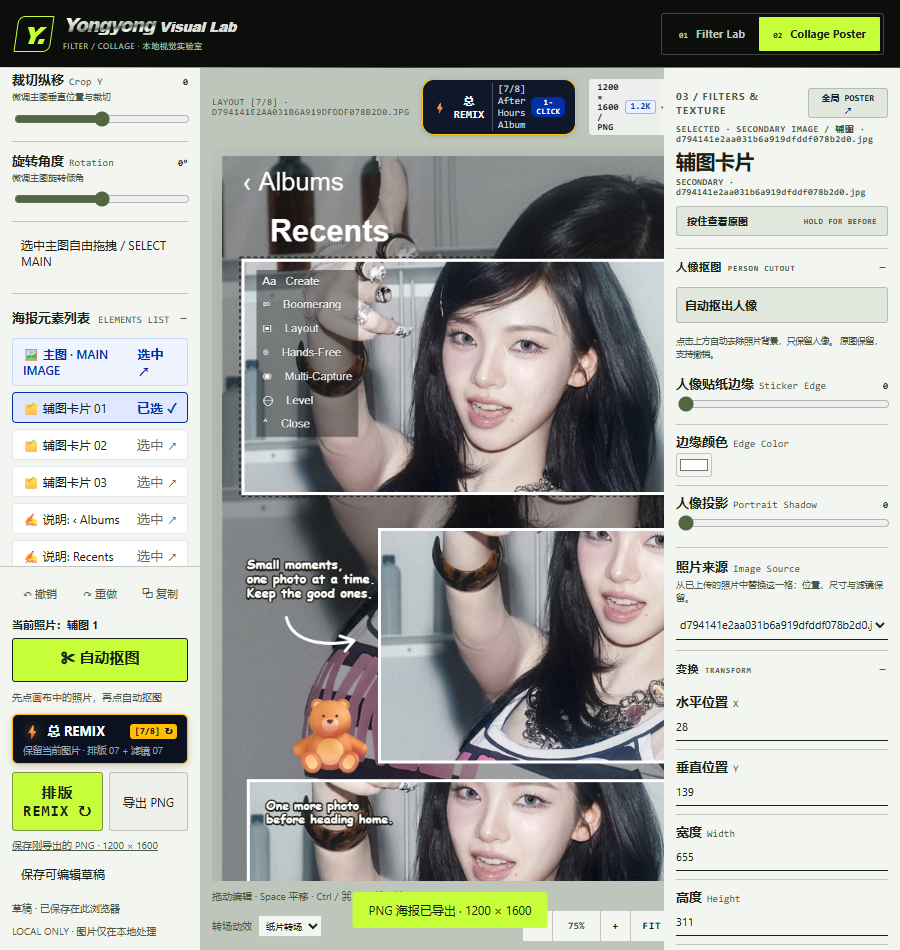
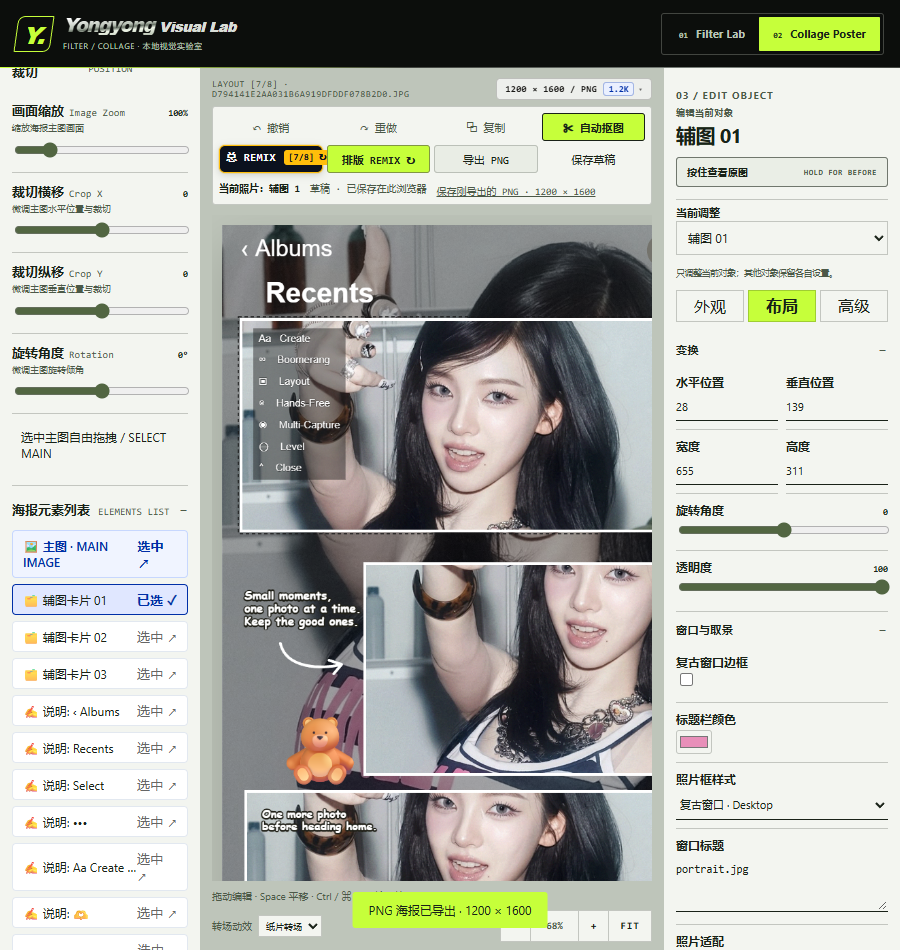
feat(editor): unify object inspector and verify advanced effect controls

diff --git a/poster.js b/poster.js
@@ -2239,7 +2239,93 @@
     } catch (error) { console.warn('Person cutout failed',error);toast('抠图未完成：'+error.message); }
     finally { cutoutBusy = false;cutoutLabel = '';renderInspector(); }
   }
+  let inspectorTab = 'look', inspectorViewKey = '', inspectorEffect = '';
   function renderInspector() {
+    renderInspectorContent();
+    organizeInspector();
+  }
+  function organizeInspector() {
+    const key = state.selected ? state.selected.type + ':' + state.selected.id : 'canvas';
+    if (key !== inspectorViewKey) { inspectorViewKey = key; inspectorTab = 'look'; inspectorEffect = ''; }
+    const nodes = Array.from(inspector.children);
+    const panes = Object.fromEntries(['look','layout','advanced'].map(name => {
+      const pane = document.createElement('div'); pane.dataset.inspectorPane = name; return [name,pane];
+    }));
+    const layoutSections = new Set(['TRANSFORM','CROP','WINDOW & CROP']);
+    const lookSections = new Set(['BACKGROUND & PAPER','COLOR & TONALITY','IMAGE','APPEARANCE','TYPOGRAPHY','FRAME','CONNECTOR','LABEL']);
+    nodes.forEach(node => {
+      const section = node.querySelector(':scope > summary .acc-en')?.textContent;
+      const pane = layoutSections.has(section) || node.matches('.poster-layer-order,.poster-section-label') ? 'layout' : lookSections.has(section) || node.querySelector('[data-prop="imageId"]') ? 'look' : 'advanced';
+      panes[pane].append(node);
+      if (node.matches('details')) node.open = pane !== 'advanced';
+      if (section === 'STYLE') node.querySelectorAll('.poster-field').forEach(field => {
+        if (field.querySelector('[data-prop="brightness"],[data-prop="contrast"],[data-prop="saturation"]')) panes.look.append(field);
+      });
+      if (section === 'TRANSFORM') node.querySelectorAll('.poster-field').forEach(field => {
+        if (field.querySelector('input[type="number"]')) field.classList.add('inspector-coordinate');
+      });
+    });
+    if (state.selected?.type === 'text') {
+      const fine = document.createElement('details'); fine.className='poster-accordion';
+      fine.innerHTML='<summary><span class="acc-zh">文字细节</span><span class="acc-en">TEXT DETAILS</span></summary><div class="poster-accordion-body"></div>';
+      panes.look.querySelectorAll('.poster-field').forEach(field=>{
+        if(field.querySelector('[data-prop="weight"],[data-prop="letterSpacing"],[data-prop="lineHeight"],[data-prop="align"],[data-segmented-for="writingMode"]')) fine.lastElementChild.append(field);
+      });
+      panes.advanced.prepend(fine);
+    }
+    // Keep every existing control and binding, but separate canvas-only geometry.
+    if (!state.selected) {
+      const paper = document.createElement('details'); paper.className = 'poster-accordion';
+      paper.innerHTML = '<summary><span class="acc-zh">纸框与外框</span><span class="acc-en">PAPER & BORDER</span></summary><div class="poster-accordion-body"></div>';
+      const position=document.createElement('details');position.className='poster-accordion';position.open=true;
+      position.innerHTML='<summary><span class="acc-zh">纸框位置</span><span class="acc-en">PAPER POSITION</span></summary><div class="poster-accordion-body"></div>';
+      panes.look.querySelectorAll('.poster-field').forEach(field => {
+        const control = field.querySelector('[data-global]'); const prop = control?.dataset.global || '';
+        if (['paper_x','paper_y','paper_w','paper_h'].includes(prop)) {field.classList.add('inspector-coordinate');position.lastElementChild.append(field);}
+        else if (prop.startsWith('paper_') || ['paperEnabled','border','borderColor','borderWidth'].includes(prop)) paper.lastElementChild.append(field);
+      });
+      panes.advanced.prepend(paper);
+      if(position.lastElementChild.children.length)panes.layout.append(position);
+      inspectorTitle.textContent = '画布'; inspectorSelection.textContent = '背景 · 纸框 · 外框';
+      if (holdBeforeButton) holdBeforeButton.style.display = 'none';
+    }
+    const choices = [['canvas','画布背景']];
+    if (state.image) choices.push(['main:'+state.main.id,'主图']);
+    for (const [type,list,label] of [['secondary',state.secondaries,'辅图'],['fragment',state.fragments,'图像碎片'],['frame',state.frames,'索引框'],['detail',state.details,'局部图'],['text',state.texts,'文字'],['connector',state.details,'连接线']]) {
+      list.forEach((object,i) => choices.push([type+':'+object.id,label+' '+String(i+1).padStart(2,'0')]));
+    }
+    const header = document.createElement('div'); header.className = 'poster-inspector-nav';
+    header.innerHTML = '<label for="posterInspectorTarget">当前调整</label><select id="posterInspectorTarget">'+choices.map(([value,label])=>'<option value="'+escapeHTML(value)+'" '+(value===key?'selected':'')+'>'+escapeHTML(label)+'</option>').join('')+'</select><p class="poster-help">'+(state.selected?'只调整当前对象；其他对象保留各自设置。':'只调整背景、纸框和外框。照片效果请选主图或辅图。')+'</p><div class="poster-inspector-tabs" role="tablist" aria-label="编辑分类">'+[['look','外观'],['layout','布局'],['advanced','高级']].map(([value,label])=>'<button type="button" role="tab" data-inspector-tab="'+value+'" aria-selected="'+(value===inspectorTab)+'">'+label+'</button>').join('')+'</div>';
+    const advanced = Array.from(panes.advanced.querySelectorAll(':scope > details'));
+    if (advanced.length) {
+      const picker = document.createElement('div'); picker.className = 'poster-field';
+      picker.innerHTML = '<label for="posterInspectorEffect">选择效果或详细设置</label><select id="posterInspectorEffect"><option value="">请选择</option>'+advanced.map((node,i)=>{
+        const code=node.querySelector(':scope > summary .acc-en')?.textContent || String(i);node.dataset.inspectorEffect=code;
+        return '<option value="'+escapeHTML(code)+'" '+(code===inspectorEffect?'selected':'')+'>'+escapeHTML(node.querySelector(':scope > summary .acc-zh')?.textContent || code)+'</option>';
+      }).join('')+'</select>';
+      if (!advanced.some(node=>node.dataset.inspectorEffect===inspectorEffect)) inspectorEffect='';
+      panes.advanced.prepend(picker);
+      advanced.forEach(node=>{node.hidden=node.dataset.inspectorEffect!==inspectorEffect;node.open=true;});
+
+    }
+    for (const name of Object.keys(panes)) panes[name].hidden=name!==inspectorTab;
+    if (!panes.layout.children.length) panes.layout.innerHTML='<p class="poster-help">在高级 → 纸框与外框开启内层纸框后，可在这里调整位置和尺寸。</p>';
+    inspectorTitle.textContent=header.querySelector('select').selectedOptions[0].textContent;
+    inspectorSelection.textContent=state.selected?'编辑当前对象':'背景 · 纸框 · 外框';
+    inspector.replaceChildren(header,panes.look,panes.layout,panes.advanced);
+    syncInspectorDependencies();
+    const deselectBtn=$('#posterDeselectButton'); if(deselectBtn)deselectBtn.style.display='none';
+  }
+  function syncInspectorDependencies() {
+      const dependencies=[['GRADIENT MAP','duotone',['duotoneDark','duotoneLight','gradientGamma']],['MOTION BLUR','motionDistance',['motionAngle']],['NOISE','grain',['noiseDistribution','noiseMonochrome','noiseSize']],['PERSON CUTOUT',null,['cutoutBorderWidth','cutoutBorderColor','cutoutShadow']],['WINDOW & CROP','windowFrame',['windowColor','windowStyle','windowTitle']],['TEXT EFFECT','textStyle',['balloonDepth','balloonShine'],'balloon'],['BADGE & BACKING','backgroundEnabled',['backgroundColor','backgroundOpacity','backgroundPaddingX','backgroundPaddingY']]];
+      for(const [section,key,props,required] of dependencies){
+        const group=Array.from(inspector.querySelectorAll('.poster-accordion')).find(node=>node.querySelector(':scope > summary .acc-en')?.textContent===section);if(!group)continue;
+        const control=key?group.querySelector('[data-prop="'+key+'"],[data-global="'+key+'"]'):null;
+        const enabled=required?control?.value===required:key?(control?.type==='checkbox'?control.checked:Number(control?.value)>0):!!selectedObject()?.cutout;
+        for(const prop of props) group.querySelectorAll('[data-prop="'+prop+'"],[data-global="'+prop+'"]').forEach(input=>{input.disabled=!enabled;input.title=enabled?'':'先启用该效果或增加强度';});
+      }
+  }
+  function renderInspectorContent() {
     syncLeftControls();
     const o = selectedObject();
     const photoSelected = !!o && ['main','secondary'].includes(state.selected?.type);
@@ -2299,18 +2385,8 @@
       + range('外框线宽','Border Width','borderWidth',state.borderWidth,1,18,1,true);
       const bgAccordion = accordion('背景与纸张', 'BACKGROUND & PAPER', bgPresetsContent, true);
 
-      const colorAccordion = accordion('图像调色', 'COLOR & TONALITY', `${range('主图透明度','Image Opacity','mainOpacity',state.main?.opacity??100,0,100,1,true,'调节主图与背景的融合透明度')}${range('底图边缘融合','Main Edge Blend','mainEdgeFade',state.mainEdgeFade??0,0,100,1,true,'柔化照片边缘，让底图融入纸张背景')}${range('黑白','B&W','bw',state.filters.bw??0,0,100,1,true,'将彩色转换为黑白基调')}${range('亮度','Brightness','brightness',state.filters.brightness??0,-70,80,1,true,'调节画面整体明暗曝光')}${range('对比度','Contrast','contrast',state.filters.contrast??0,-50,120,1,true,'拉开明暗反差与视觉冲击')}${range('饱和度','Saturation','saturation',state.filters.saturation??100,0,200,1,true,'控制色彩纯度与鲜艳度')}<div class="poster-field" style="margin-top:6px;"><button type="button" class="poster-action" data-poster-action="reset-filters" style="width:100%;">恢复原图清晰质感 / RESET FILTERS</button></div>`, true);
 
-      inspector.innerHTML = accordion('人像抠图','PERSON CUTOUT','<button type="button" class="poster-action poster-action-primary" data-poster-action="select-main">选择主图抠图 ↗</button><p class="poster-help">点击画布中的辅图，可单独抠出该照片的人像。已抠图的照片可恢复背景。</p>',true)
-        + filterRemixBanner
-        + bgAccordion
-        + colorAccordion
-        + inspectorImagePatterns(state.filters,true)
-        + accordion('扫描纹', 'SCANLINES', `${range('扫描线','Scanline','scan',state.filters.scan??0,0,100,1,true,'模拟复印或显像管扫描条纹')}${segmented('扫描方向','Scan Direction','scanAngle',state.filters.scanAngle??0,[[0,'横向','Horizontal'],[90,'纵向','Vertical']],true,'切换横向或纵向扫描条纹')}`)
-        + inspectorMotionNoise(state.filters,true)
-        + inspectorGradientControls(state.filters,true)
-        + accordion('质感', 'TEXTURE', `${range('粗糙度','Roughness','rough',state.filters.rough??0,0,100,1,true,'增加复印 / 阈值化的粗粝感')}${range('纸张纹理','Paper Texture','paper',state.filters.paper??0,0,100,1,true,'模拟旧报纸与复印纸纤维杂质')}${range('脏版印刷','Dirty Print','dirty',state.filters.dirty??0,0,100,1,true,'增加墨点、污渍和印刷缺陷')}${range('压缩损坏','Compression','compression',state.filters.compression??0,0,100,1,true,'模拟低质量数字图片的块状损坏')}`)
-        + accordion('风格化', 'STYLIZE', `${range('轮廓','Outline','outline',state.filters.outline,0,100,1,true,'提取高对比边缘描边线条')}${range('反相','Invert','invert',state.filters.invert,0,100,1,true,'翻转明暗与底片反色')}${range('色阶压缩','Color Compression / Posterize','posterize',state.filters.posterize,0,100,1,true,'减少颜色层级，形成块面效果')}<p class="poster-help">所有质感均可从 Clean 的 0% 推到 Destroyed 的 100%。</p>`);
+      inspector.innerHTML = bgAccordion + accordion('模板调色配方','TEMPLATE FILTERS','<p class="poster-help">切换模板的照片调色配方；保留排版与素材。</p>'+filterRemixBanner);
       return;
     }
     if (state.selected.type === 'main') {
@@ -2324,6 +2400,11 @@
         + inspectorImagePatterns(state.filters,true)
         + inspectorMotionNoise(state.filters,true)
         + inspectorGradientControls(state.filters,true)
+        + accordion('扫描纹','SCANLINES',range('扫描线','Scanline','scan',state.filters.scan??0,0,100,1,true)+segmented('扫描方向','Direction','scanAngle',state.filters.scanAngle??0,[[0,'横向','Horizontal'],[90,'纵向','Vertical']],true))
+        + accordion('质感','TEXTURE',range('粗糙度','Roughness','rough',state.filters.rough??0,0,100,1,true)+range('纸张纹理','Paper','paper',state.filters.paper??0,0,100,1,true)+range('脏版印刷','Dirty','dirty',state.filters.dirty??0,0,100,1,true)+range('压缩损坏','Compression','compression',state.filters.compression??0,0,100,1,true))
+        + accordion('风格化','STYLIZE',range('轮廓','Outline','outline',state.filters.outline??0,0,100,1,true)+range('反相','Invert','invert',state.filters.invert??0,0,100,1,true)+range('色阶压缩','Posterize','posterize',state.filters.posterize??0,0,100,1,true))
+        + accordion('边缘融合','EDGE BLEND',range('底图边缘融合','Edge Blend','mainEdgeFade',state.mainEdgeFade??0,0,100,1,true))
+        + accordion('重置主图','RESET MAIN','<button type="button" class="poster-action" data-poster-action="reset-filters">重置主图取景与效果</button>')
         + layerControls();
       return;
     }
@@ -4470,6 +4551,7 @@
     }
     if (c.type === 'number' && (c.value === '' || !Number.isFinite(c.valueAsNumber))) return;
     root[p] = c.type === 'checkbox' ? c.checked : (c.type === 'range' || c.type === 'number' ? Number(c.value) : c.value);
+    if (['duotone','motionDistance','grain','windowFrame','backgroundEnabled','textStyle'].includes(p)) syncInspectorDependencies();
     if (['w', 'h'].includes(p)) root[p] = Math.max(20, root[p]);
     if (['x','y','w','h','rotation'].includes(p)) {
       if (state.selected?.type === 'secondary' || state.selected?.type === 'main') {
@@ -4488,13 +4570,30 @@
       if (['duotone','gradient_map'].includes(root.filterType)) root.duotone = true;
       renderInspector();
     }
-    if (p === 'bitmapMethod') renderInspector();
+    if (p === 'bitmapMethod' || p === 'backgroundStyle') renderInspector();
     scheduleRender();
     const out = c.closest('.poster-field')?.querySelector('output');
     if (out) out.textContent = c.value;
     commit(false);
     markManuallyEdited();
   }
+  inspector.addEventListener('click', e => {
+    const tab = e.target.closest('[data-inspector-tab]');
+    if (tab) { inspectorTab=tab.dataset.inspectorTab; renderInspector(); }
+  });
+  inspector.addEventListener('change', e => {
+    if (e.target.id==='posterInspectorEffect') { inspectorEffect=e.target.value; renderInspector(); }
+    if (e.target.id==='posterInspectorTarget') {
+      const value=e.target.value;
+      if (value==='canvas') setSelected(null,null);
+      else {
+        const split=value.indexOf(':'), type=value.slice(0,split), id=value.slice(split+1);
+        const lists={main:[state.main],secondary:state.secondaries,fragment:state.fragments,frame:state.frames,detail:state.details,text:state.texts,connector:state.details};
+        const object=lists[type]?.find(item=>item.id===id);if(object)setSelected(type,object);
+      }
+      render();
+    }
+  });
   inspector.addEventListener('input', handleInspectorInput);
   inspector.addEventListener('change', (e) => {
     handleInspectorInput(e);

diff --git a/index.html b/index.html
@@ -6,7 +6,7 @@
     <meta name="theme-color" content="#0c0e0c" />
     <title>Yongyong Visual Lab — Filter & Collage Studio</title>
     <link rel="stylesheet" href="styles.css?v=20261001-readable" />
-    <link rel="stylesheet" href="poster.css?v=20261011-compact-toolbar" />
+    <link rel="stylesheet" href="poster.css?v=20261011-unified-inspector" />
   </head>
   <body>
     <div class="app-shell">
@@ -430,12 +430,12 @@
 
               <button class="poster-remix-button" id="posterRemixButton" type="button" data-poster-action="remix" aria-label="排版 REMIX ↻"><b>排版 REMIX ↻</b></button>
               <button class="poster-action" id="posterExportButton" type="button">导出 PNG</button>
-            <a id="posterLastExportLink" hidden>保存刚导出的 PNG</a>
             <button class="poster-action" id="posterSaveDraftButton" type="button">保存草稿</button>
             </div>
             <div class="poster-toolbar-status">
             <p class="poster-cutout-target" id="posterCutoutTarget" role="status" aria-live="polite">当前照片：主图</p>
             <small id="posterDraftStatus" role="status" aria-live="polite">草稿 · 准备中</small>
+            <a id="posterLastExportLink" hidden>保存刚导出的 PNG</a>
 
             </div>
           </section>
@@ -463,7 +463,7 @@
         <aside class="poster-inspector" aria-label="拼贴海报滤镜面板">
           <div class="poster-inspector-heading">
             <div style="display:flex;align-items:center;justify-content:space-between;">
-              <p class="eyebrow" style="margin:0;">03 / FILTERS & TEXTURE</p>
+              <p class="eyebrow" style="margin:0;">03 / EDIT OBJECT</p>
               <button class="poster-deselect-button" id="posterDeselectButton" type="button" style="display:none;" title="返回海报全局设置">全局 POSTER ↗</button>
             </div>
             <span class="poster-selected-label" id="posterInspectorSelection">FILTERS · TEXTURE</span>
@@ -496,6 +496,6 @@
     <script src="poster-draft.js?v=20261009-local"></script>
     <script src="poster-cutout.js?v=20261009-stable"></script>
     <script src="poster-decor.js?v=20261010-function-fit-font-backing"></script>
-    <script src="poster.js?v=20261010-top-toolbar"></script>
+    <script src="poster.js?v=20261011-unified-inspector"></script>
   </body>
 </html>

diff --git a/poster.css b/poster.css
@@ -299,6 +299,19 @@ body.is-resizing-poster canvas {
 .poster-accordion > summary::after { content: '+'; position: absolute; right: 1px; top: 9px; color: var(--muted); font-size: 13px; }
 .poster-accordion[open] > summary::after { content: '−'; }
 .poster-accordion-body { padding: 0 0 4px; }
+.poster-inspector-nav select { width: 100%; padding: 7px; border: 1px solid var(--line); background: var(--panel); color: var(--ink); font-size: 12px; }
+.poster-inspector-nav > label { font-size: 11px; font-weight: 700; }
+.poster-inspector-tabs { display: grid; grid-template-columns: repeat(3, 1fr); gap: 4px; margin: 10px 0; }
+.poster-inspector-tabs button { min-height: 32px; border: 1px solid var(--line); background: transparent; color: var(--ink); cursor: pointer; }
+.poster-inspector-tabs [aria-selected="true"] { background: var(--accent); font-weight: 700; }
+[data-inspector-pane] > .poster-accordion > summary .acc-en { display: none; }
+[data-inspector-pane="layout"] .poster-accordion-body { display: grid; grid-template-columns: 1fr 1fr; gap: 0 8px; }
+[data-inspector-pane="layout"] .poster-accordion-body > :not(.inspector-coordinate) { grid-column: 1 / -1; }
+[data-inspector-pane] .poster-label-sub { display: none; }
+[data-inspector-pane] .poster-label-main { font-size: 12px; }
+[data-inspector-pane] .poster-field { padding: 7px 0; }
+.poster-inspector-tabs button:focus-visible, .poster-inspector-nav select:focus-visible { outline: 2px solid #002fa7; outline-offset: 2px; }
+[data-inspector-pane] .poster-filter-remix-button { padding: 6px 8px !important; font-size: 12px !important; box-shadow: none !important; }
 .poster-accordion .poster-field { padding: 8px 0; }
 .poster-field { padding: 10px 0; border-bottom: 1px solid var(--line); }
 .poster-field:last-child { border-bottom: 0; }

diff --git a/DEVELOPMENT_LOG.md b/DEVELOPMENT_LOG.md
@@ -1187,3 +1187,11 @@
 顶部常用操作改为两行四列等宽按钮，桌面常用键高28px，手机保留34px；移除重复提示行，状态合并。968px窗口工具区实测92px高，四种尺寸无横向溢出且不遮挡画布；复制／历史、两图八组总REMIX素材保留、抠图恢复、草稿和PNG下载通过。新增高度上限断言。
 
 右侧仅制作待确认的独立交互方案，未调整正式Inspector：明确选择主图、辅图、局部、文字或画布；外观／布局／高级三类控件；保留各对象独立效果。现有无选中面板的调色实际使用主图state.filters，不应误标为全海报统一效果。方案位于本地samples/results/inspector-proposal-20261011/index.html，演示不改作品。动效待这两项完成后再做。
+
+## 2026-10-11 · 统一对象编辑与真实效果验证
+
+用户确认右栏方案后，接入当前调整对象选择与外观／布局／高级三个分类。复用原有参数控件及事件路由；高级选一组只显示对应参数。画布背景不再重复展示主图调色，主图原有扫描纹、质感、风格化和边缘融合集中保留；照片、文字、索引框、局部与连线的设置均保留。数字坐标两列排列，文字细项归高级。未启用的模糊、杂色、渐变、人像边缘、窗口标题及气球文字参数置灰；更新状态不替换拖动中的控件。模板调色配方收进画布高级。再次保存PNG链接置于状态行，避免导出后打乱两行按钮。
+
+实际上传aespa-03／20，110份PNG验证主图／辅图／局部／碎片的调色、半调、模糊、杂色、渐变、扫描纹、印刷质感以及玻璃、马赛克、位图、反相等；开关和归零精确回到基准，修改方向、颗粒尺寸、中间调有像素变化。UI与图片范围隔离、Undo／Redo、草稿刷新、文字和画布颜色、四视口无溢出均通过；原照片SHA256保持。10个离线脚本通过。八组模板四个上传场景另复跑46份真实PNG，字体／取景／采样／导出与草稿通过。高分辨率模板8相较旧PNG仅11个通道值相差1（4800万通道），构图与效果无可见改变。
+
+脚本：checks/inspector-browser-check.cjs；本地原始导出、报告和截图：samples/results/inspector-20261011/。本轮仅验证两张及其组合，未做全图库或跨浏览器测试。新动效尚未实施。

diff --git a/README.md b/README.md
@@ -10,6 +10,8 @@
 
 Collage Poster 没有本地草稿时，初次进入会载入 **模板 01 · Aespa 电光档案（多图拼贴杂志海报）**。模板二仍可从示范按钮打开。已有本地草稿时优先恢复当前作品。
 
+右侧使用统一的对象编辑面板：点击画布中的对象，或在 **当前调整** 下拉框选择主图、辅图、局部图、文字或画布背景。**外观** 提供常用调色与文字；**布局** 集中位置、尺寸、旋转和取景；**高级** 先选择效果或详细设置，再调对应参数。主图、辅图和局部图保留独立效果，画布背景只管背景、纸框与外框。未启用的效果参数置灰，先开启效果或增加强度才能调整；强度设0或关闭开关可停用。模板调色配方在画布背景的高级入口中保留。现有草稿与模板参数不做迁移。
+
 编辑会自动保存到当前浏览器的 IndexedDB；画布上方工具栏可点 **保存草稿** 并查看状态。刷新恢复照片、抠图、图层、文字、滤镜及导出尺寸；撤销历史从恢复后的作品重新开始。保存失败会提示重试并保护离页，保留上一次成功记录。草稿仅限当前浏览器及站点地址，不是跨设备工程备份；清理站点数据会丢失。旧页面更新前先导出 PNG 留底。详见 [模板四前修复与实测](samples/results/pre-template04-fixes-20261009/results.md)。
 
 抠图只需两步：**先点画布中的照片，再点画布上方绿色「✂ 自动抠图」**，不必跳到右侧。上方显示当前主图／辅图；未选照片时明确标注主图（默认）。处理时显示正在处理的对象并禁用按钮，完成显示「✓ 已抠图」，旁边独立「↩ 恢复背景」可还原。重复点击不会误恢复；撤销／重做同步状态。

diff --git a/TESTING.md b/TESTING.md
@@ -12,7 +12,7 @@
 1. 在独立浏览器上下文打开编辑器，避免旧 IndexedDB 草稿覆盖默认示范。已有作品请先导出，或使用新的浏览器上下文。
 2. 逐个打开「示范 01—08」，对照参考图检查构图、文字、照片框、贴纸、抠图和层次。参考照片的姿态不能由模板生成。
 3. 只取图库 `aespa-03` 与 `aespa-20`：分别从上传入口上传单图，再上传两图组合并换主图；每种场景循环八组「总 REMIX」，确认素材全部保留。
-4. 编辑模板实际使用的对象：照片来源、填满／完整照片、缩放与偏移、窗口标题；文字内容／字体／行距／底色透明度；装饰尺寸／颜色；人物描边／投影。检查参数归零、图层前后、撤销和重做。
+4. 通过「当前调整」选择对象，或点击画布选中；切到外观／布局／高级。高级先选择效果，再改变参数，检查预览及实际PNG确实变化、归零／关闭能恢复。未启用的效果参数应置灰。照片来源、取景和窗口位于布局／外观；描边、投影、文字细节等位于高级；画布仅提供背景、纸框与外框。检查图层前后、撤销和重做，单对象编辑不能改其他照片的滤镜。
 5. 用「自动抠图」及「恢复背景」检查本地处理。首次会下载本站模型与 WASM；用户照片不应发送到第三方服务。检查 Console 错误和失败的网络请求。
 6. 实际导出 PNG 并打开文件核对尺寸、人物裁切与文字；模板八再检查 3000 × 4000。保存草稿、刷新，核对编辑状态和导出结果。
 7. 用约 390px 与 900px 视口检查页面布局，再切到 Filter Lab 验证原有功能。
